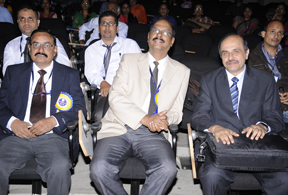
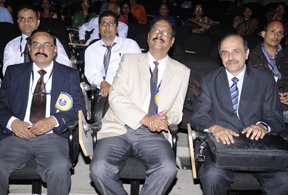
Removing unused images and compressing images

diff --git a/index.html b/index.html
@@ -12,45 +12,45 @@
     <link rel="shortcut icon" type="image/png" href="assets/images/favicon.ico"/>
 </head>
 <body data-spy="scroll" data-target="#site-nav">
-    <nav id="site-nav" class="navbar navbar-fixed-top navbar-custom navbar-solid">
-        <div class="container">
-            <div class="navbar-header">
+  <nav id="site-nav" class="navbar navbar-fixed-top navbar-custom navbar-solid">
+      <div class="container">
+          <div class="navbar-header">
 
-                <!-- logo -->
-                <div class="site-branding">
-                    <a class="logo" href="index.html">
-                      <!-- logo image  -->
-                      <img src="assets/images/logo.png" alt="Logo">
-                      ICERECT - 2018
-                    </a>
-                </div>
+              <!-- logo -->
+              <div class="site-branding">
+                  <a class="logo" href="index.html">
+                    <!-- logo image  -->
+                    <img src="assets/images/logo-Copy.png" alt="Logo" style="height:50px;">
+                    ICERECT - 2018
+                  </a>
+              </div>
 
-                <button type="button" class="navbar-toggle collapsed" data-toggle="collapse" data-target="#navbar-items" aria-expanded="false">
-                    <span class="sr-only">Toggle navigation</span>
-                    <span class="icon-bar"></span>
-                    <span class="icon-bar"></span>
-                    <span class="icon-bar"></span>
-                </button>
-            </div><!-- /.navbar-header -->
-            <div class="collapse navbar-collapse" id="navbar-items">
-                <ul class="nav navbar-nav navbar-right">
-                    <!-- navigation menu -->
-                    <li class="active"><li>
-                    <li> <a data-scroll href="#about">About</a></li>
-                    <li><a data-scroll href="#callforpapers">Call for Papers</a></li>
-                    <li><a data-scroll href="#committees">Committees</a></li>
-                    <li><a data-scroll href="#speakers">Speakers</a></li>
-                    <li><a data-scroll href="#icerect">ICERECT-2012 & 2015 </a></li>
-                    <!-- <li><a data-scroll href="#schedule">Schedule</a></li> -->
-                    <li><a data-scroll href="#submssion">Submissions</a></li>
-                    <li><a data-scroll href="#partner">Partner</a></li>
-                    <!-- <li><a data-scroll href="#">Sponsorship</a></li> -->
-                   <!-- <li><a data-scroll href="#faq">FAQ</a></li> -->
-                    <li><a data-scroll href="#photos">Photos</a></li>
-                </ul>
-            </div>
-        </div><!-- /.container -->
-    </nav>
+              <button type="button" class="navbar-toggle collapsed" data-toggle="collapse" data-target="#navbar-items" aria-expanded="false">
+                  <span class="sr-only">Toggle navigation</span>
+                  <span class="icon-bar"></span>
+                  <span class="icon-bar"></span>
+                  <span class="icon-bar"></span>
+              </button>
+          </div><!-- /.navbar-header -->
+          <div class="collapse navbar-collapse" id="navbar-items">
+              <ul class="nav navbar-nav navbar-right">
+                  <!-- navigation menu -->
+                  <li class="active"><li>
+                  <li> <a data-scroll href="#about">About</a></li>
+                  <li><a data-scroll href="#callforpapers">Call for Papers</a></li>
+                  <li><a data-scroll href="#committees">Committees</a></li>
+                  <li><a data-scroll href="#speakers">Speakers</a></li>
+                  <li><a data-scroll href="#icerect">ICERECT-2012 & 2015 </a></li>
+                  <!-- <li><a data-scroll href="#schedule">Schedule</a></li> -->
+                  <li><a data-scroll href="#submssion">Submissions</a></li>
+                  <li><a data-scroll href="#partner">Partner</a></li>
+                  <!-- <li><a data-scroll href="#">Sponsorship</a></li> -->
+                 <!-- <li><a data-scroll href="#faq">FAQ</a></li> -->
+                  <li><a data-scroll href="#photos">Photos</a></li>
+              </ul>
+          </div>
+      </div><!-- /.container -->
+  </nav>
     <div style="margin-top:45px;">
       <header id="site-header" class="site-header valign-center">
         <div id="background-carousel">
@@ -65,9 +65,9 @@
         <div class="intro">
           <div class="well">
             <div>
-              <img id="logo-left" src="assets/images/logo-Copy.png" alt="College Logo" style="float:left; width:60px;">
-              <img id="logo-center" src="assets/images/BU_Capture_T.png" alt="Binghamtom Logo" style="width:212px;">
-              <img id="logo-right" src="assets/images/partner/partner-1.png" alt="IEEE Logo" style="float:right; width:70px;">
+              <img id="logo-left" src="assets/images/logo-Copy.png" alt="College Logo" style="float:left; width:50px;">
+              <img id="logo-center" src="assets/images/BU_Capture_T.png" alt="Binghamtom Logo" style="width:185px;">
+              <img id="logo-right" src="assets/images/partner/partner-1.png" alt="IEEE Logo" style="float:right; width:55px;">
             </div>
             <div style="clear:both;">
               <h1>ICERECT - 2018</h1>
@@ -208,7 +208,7 @@ Looking forward to seeing you at ICERECT-18 in Mandya, Karnataka, India during A
                   <h3 class="section-title">Committees</h3>
 
                   <h3><span style="color: #800080;"><strong>CHIEF PATRON</strong></span></h3>
-                  <p><strong>                      </strong><strong>Dr. H D Chowdaiah</strong>, President, PET®, Mandya</p>
+                  <p><strong>Dr. H D Chowdaiah</strong>, President, PET®, Mandya</p>
                   <h3><span style="color: #800080;"><strong>PATRONS</strong></span></h3>
                   <ul>
                     <li><strong>Dr. H Maheshappa</strong>, VC, VTU, Belagavi.</li>
@@ -463,7 +463,7 @@ Looking forward to seeing you at ICERECT-18 in Mandya, Karnataka, India during A
               <p align="justify">P.E.S. College of Engineering (PESCE), Mandya was established in 1962, with the initiation of Late Sri. K.V.Shankara Gowda, the founder President and Ex-Education Minister of Government of Karnataka. The Institution is managed by Peoples Education Trust®, under the leadership of Dr. H.D. Chowdaiah, Ex. MLA. It is one of the Pioneer Technical Institutes in the country and has gained a very good reputation by some outstanding achievements of the faculty and students. The institution is functioning under the Grant-in-Aid scheme of Government of Karnataka, permanently affiliated to Visvesvaraya Technological University (VTU), Belgaum, become autonomous in the year 2008. It is recognized by All India Council for Technical Education (AICTE), New Delhi and is accredited by National Board of Accreditation (NBA), New Delhi. PESCE has taken 30th place in Outlook Express All India Ranking. State ranking and National Ranking of PESCE in Career 360 is ‘AA+’ and ‘A’ respectively. The institute has nine Under Graduate programs and eight Post Graduate programs. The institution has the best campus with state-of-the-art and National standard sports facilities.
 
                 The Department of Electronics & Communication, Computer science and Engineering, Electrical & Electronics and Information Science & Engineering, with their rich experience has conducted two international conferences on emerging trends to trigger the minds of researchers, faculty members and also students.</p>
-                <p><b>ICERECT-12</b></p>
+                <h4><span style="color: #800080;"><strong>ICERECT-12</strong></span></h4>
 
                 <p align="justify">The First International conference on Emerging Research in electronics, Computer science and Technlogy (ICERECT-12) was held during Dec-2012 and the proceedings were published in Springer.
 
@@ -478,15 +478,17 @@ Looking forward to seeing you at ICERECT-18 in Mandya, Karnataka, India during A
               </div>
             </section>
 
-            <section id="registration" class="section container">
-              <h3 class="section-title">Registration Details</h3>
-              <h4>Registration Fees</h4>
-              <ol>
-                <li>Registration fees for different categories will be announced on this page shortly.</li>
-                <li>Student Attendees must produce their "Institute ID Cards" during the Registration Procedure at PESCE, Mandya.</li>
-                <li>Atleast one author of every accepted paper must pay the Registration fees and present the paper (in person) during the Conference.</li>
-                <li>Papers not presented at the Conference will not be included in the Final Program and Conference Proceedings.</li>
-              </ol>
+            <section id="registration" class="section">
+              <div class="container">
+                <h3 class="section-title">Registration Details</h3>
+                <h4><span style="color: #800080;"><strong>Registration Fees</strong></span></h4>
+                <ol>
+                  <li>Registration fees for different categories will be announced on this page shortly.</li>
+                  <li>Student Attendees must produce their "Institute ID Cards" during the Registration Procedure at PESCE, Mandya.</li>
+                  <li>Atleast one author of every accepted paper must pay the Registration fees and present the paper (in person) during the Conference.</li>
+                  <li>Papers not presented at the Conference will not be included in the Final Program and Conference Proceedings.</li>
+                </ol>
+              </div>
             </section>
             <!-- <section id="registration" class="section registration">
             <div class="container">
@@ -568,21 +570,23 @@ Looking forward to seeing you at ICERECT-18 in Mandya, Karnataka, India during A
 </div>
 </section> -->
 
-<section id="submssion" class="section container">
-  <h3 class="section-title">Paper Submission Details</h3>
-  <h4>Manuscript Preparation/Formatting Guidelines:</h4>
-  <ol>
-    <li>Every Manuscript will be subjected to the "similarity check" using IEEE CrossCheck and PAL. Manuscript that fail this check would be rejected.</li>
-    <li>Since the proceedings of DISCOVER may be published by IEEE CPP, the manuscript must strictly adhere to the standard IEEE two column format.</li>
-    <li>Every manuscript will be subjected to a double blind review process. Hence, authors "must not" reveal their identity in the paper by any means, not even while citing their own papers.</li>
-    <li>Typesetting instructions and sample templates: <a href="https://www.ieee.org/conferences_events/conferences/publishing/templates.html">IEEE Manuscript Templates for Conference Proceedings</a></li>
-  </ol>
-  <h4>Manuscript Submission Procedure:</h4>
-  <ol>
-    <li>Manuscripts must be submitted for review only via the EasyChair link: https://easychair.org/conferences/?conf=discover2018</li>
-    <li>Manuscripts submitted by email will not be considered for review.</li>
-    <li>If you wish to upload a revised manuscript, "do not" create a new submission in EasyChair. Use your previous submission to update the manuscript.</li>
-  </ol>
+<section id="submssion" class="section">
+  <div class="container">
+    <h3 class="section-title">Paper Submission Details</h3>
+    <h4><span style="color: #800080;"><strong>Manuscript Preparation/Formatting Guidelines:</strong></span></h4>
+    <ol>
+      <li>Every Manuscript will be subjected to the "similarity check" using IEEE CrossCheck and PAL. Manuscript that fail this check would be rejected.</li>
+      <li>Since the proceedings of DISCOVER may be published by IEEE CPP, the manuscript must strictly adhere to the standard IEEE two column format.</li>
+      <li>Every manuscript will be subjected to a double blind review process. Hence, authors "must not" reveal their identity in the paper by any means, not even while citing their own papers.</li>
+      <li>Typesetting instructions and sample templates: <a href="https://www.ieee.org/conferences_events/conferences/publishing/templates.html">IEEE Manuscript Templates for Conference Proceedings</a></li>
+    </ol>
+    <h4><span style="color: #800080;"><strong>Manuscript Submission Procedure:</strong></span></h4>
+    <ol>
+      <li>Manuscripts must be submitted for review only via the EasyChair link: https://easychair.org/conferences/?conf=discover2018</li>
+      <li>Manuscripts submitted by email will not be considered for review.</li>
+      <li>If you wish to upload a revised manuscript, "do not" create a new submission in EasyChair. Use your previous submission to update the manuscript.</li>
+    </ol>
+  </div>
 </section>
 <!-- <section id="schedule" class="section schedule">
 <div class="container">
@@ -629,7 +633,7 @@ Looking forward to seeing you at ICERECT-18 in Mandya, Karnataka, India during A
         <h3 class="section-title">Event Partner</h3>
       </div>
     </div>
-    <h4>Updated Soon</h4>
+    <h4>Will be updated soon</h4>
     <!-- <div class="row">
       <div class="col-sm-3">
         <a href="https://www.ieee.org/" target="_blank" class="partner-box partner-box-1"></a>
